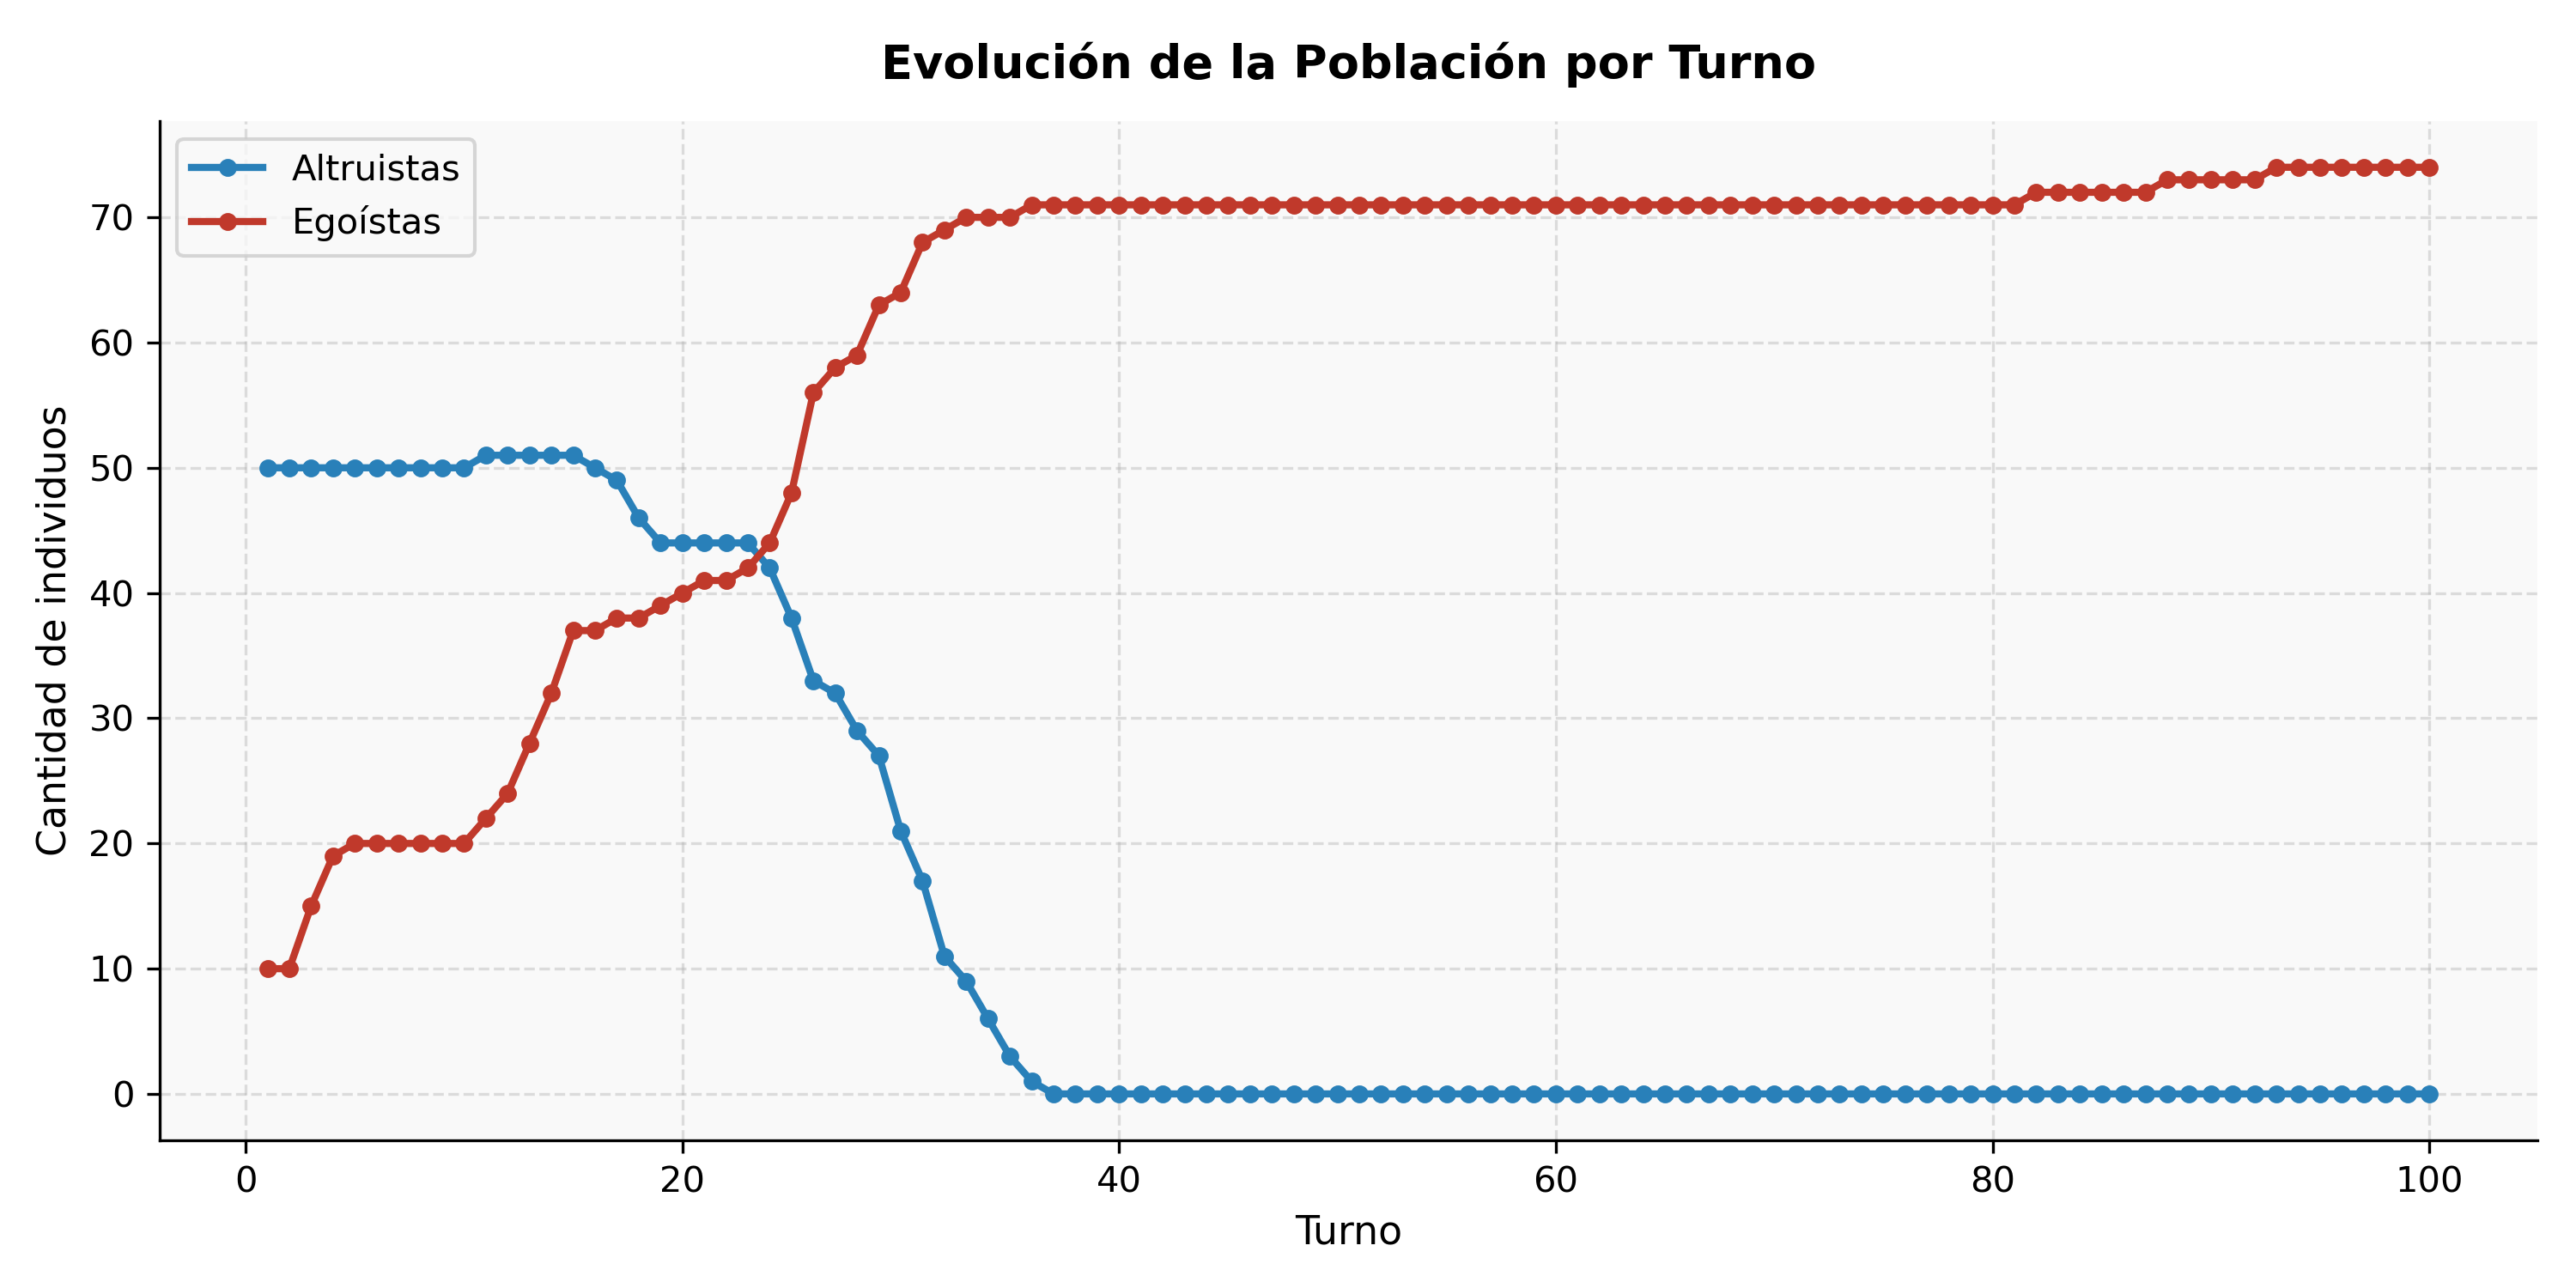
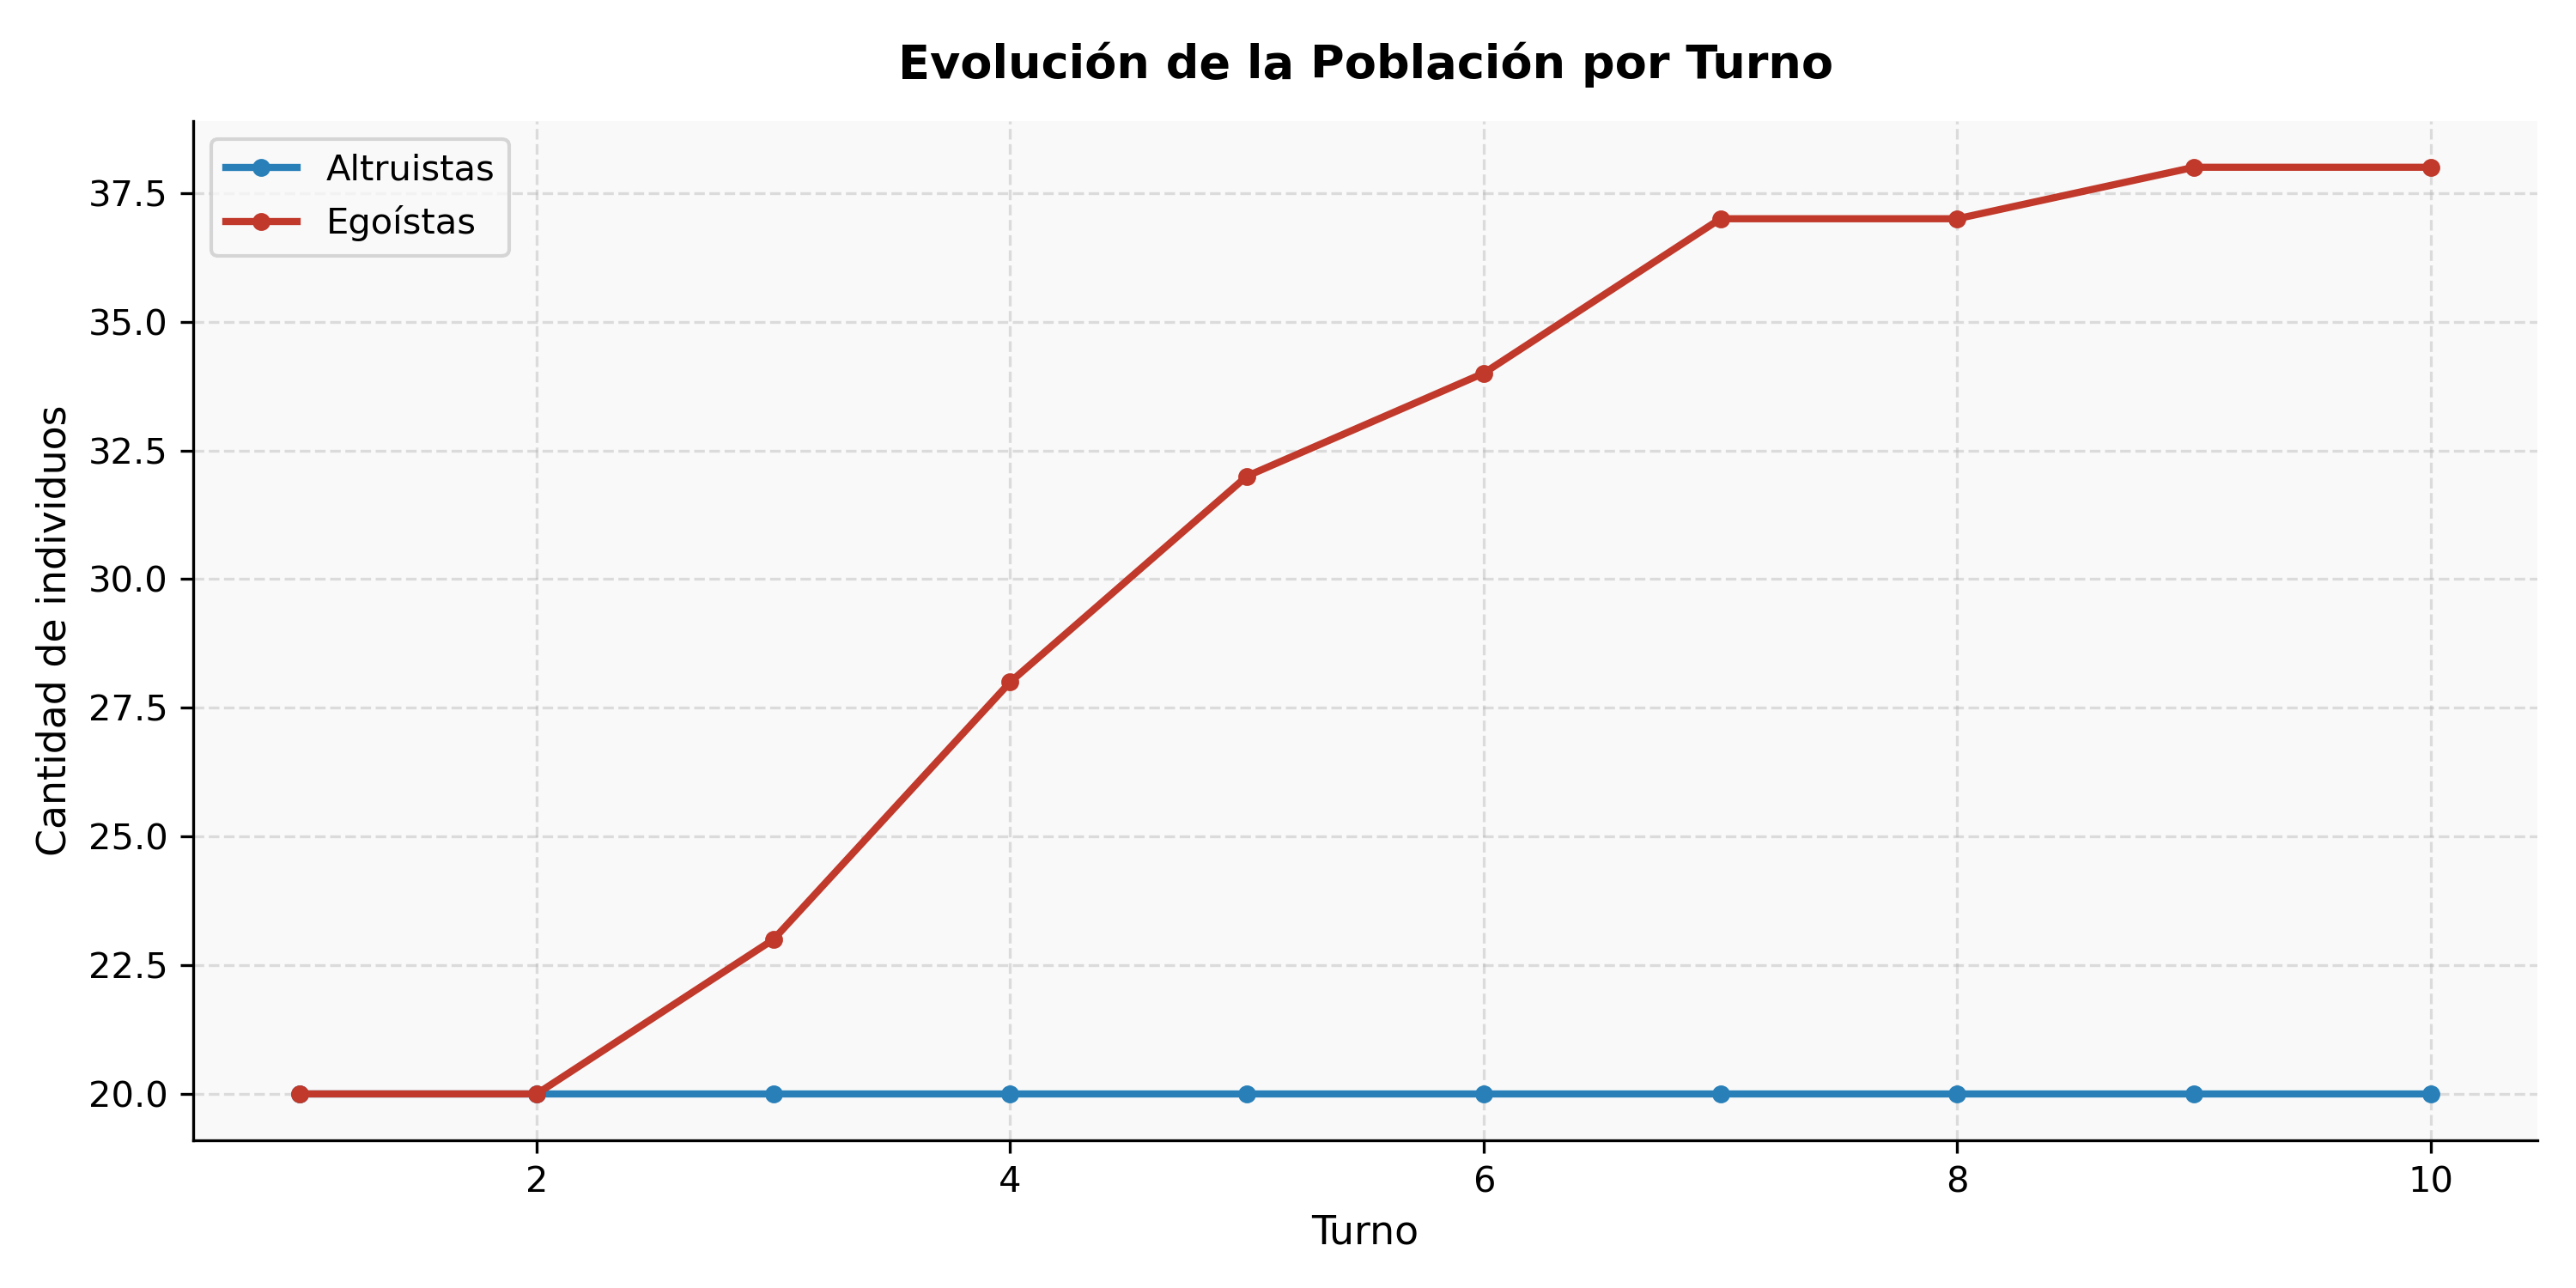
graficos

diff --git a/graficos.py b/graficos.py
@@ -272,8 +272,9 @@ def grafico_5_recursos_promedio_final(df):
             recursos_totales / cantidad de individuos
        y luego se obtiene el promedio final a lo largo del tiempo.
 
-    Esto evita divisiones por cero cuando alguna población se extingue
-    durante la simulación.
+    El gráfico compara el promedio de recursos entre altruistas y egoístas
+    al final de la simulación, mostrando posibles diferencias entre ambas
+    estrategias de comportamiento.
 
     Parameters
     ----------